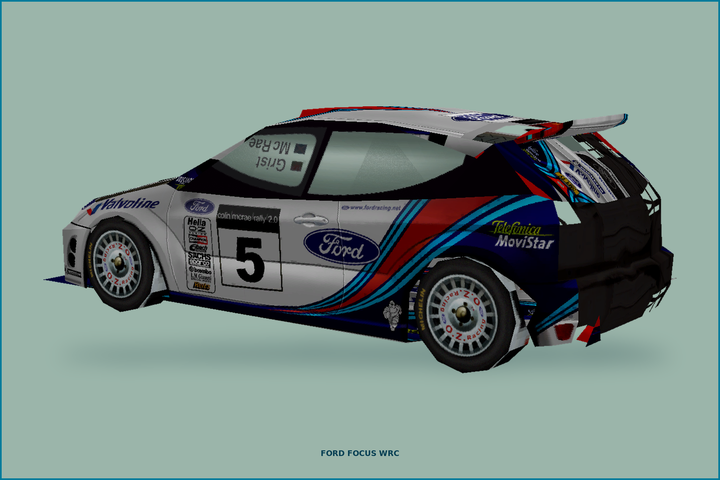
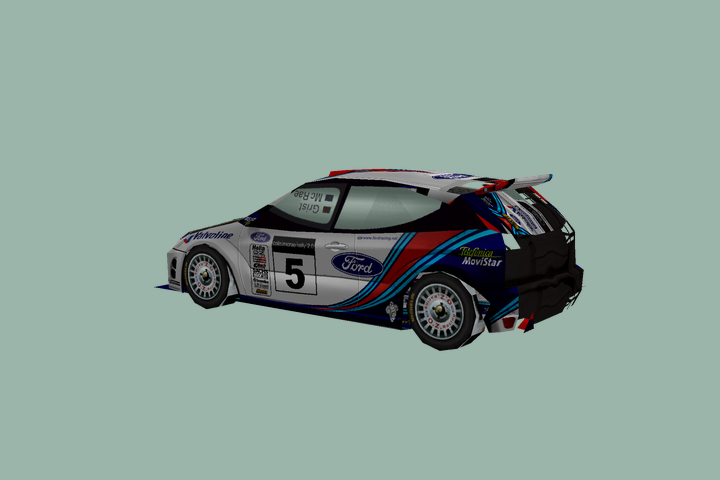
art: rebuild car tiles with coherent part texture heuristic

Changed region(s): [[0.0611, 0.2188, 0.9472, 0.7812], [0.0, 0.0, 1.0, 1.0]]

diff --git a/tools/build_car_tiles.py b/tools/build_car_tiles.py
@@ -1,0 +1,29 @@
+#!/usr/bin/env python3
+"""Rebuild the four README car tiles from CMR2's coherent part heuristic.
+
+The C3D material dwords are not texture-table indices.  Texture choice therefore
+follows the verified part-name/number heuristic in rnd/carlib.py, while the
+renderer uses the corrected vertical UV orientation (flipv=True).
+"""
+import os, sys
+from pathlib import Path
+sys.path.insert(0, '/root/.lena_cmr2/rnd')
+import final_icons
+
+ROOT = Path(__file__).resolve().parents[1]
+OUT = ROOT / 'assets'
+CARS = {
+    'sub': 'car-subaru.png',
+    'foc': 'car-focus.png',
+    '205': 'car-205.png',
+    '6r4': 'car-6r4.png',
+}
+# The public tiles use the same selected mesh parts as the previous good render.
+for cid, filename in CARS.items():
+    image = final_icons.car_rgba(cid, 720, 480, az=216, el=8, ss=3)
+    # Keep the existing transparent-free tile presentation: sage field behind the car.
+    from PIL import Image
+    bg = Image.new('RGB', image.size, (155, 181, 170))
+    bg.paste(image.convert('RGB'), mask=image.getchannel('A'))
+    bg.save(OUT / filename, optimize=True)
+    print(f'WROTE {OUT / filename} {bg.size}')
